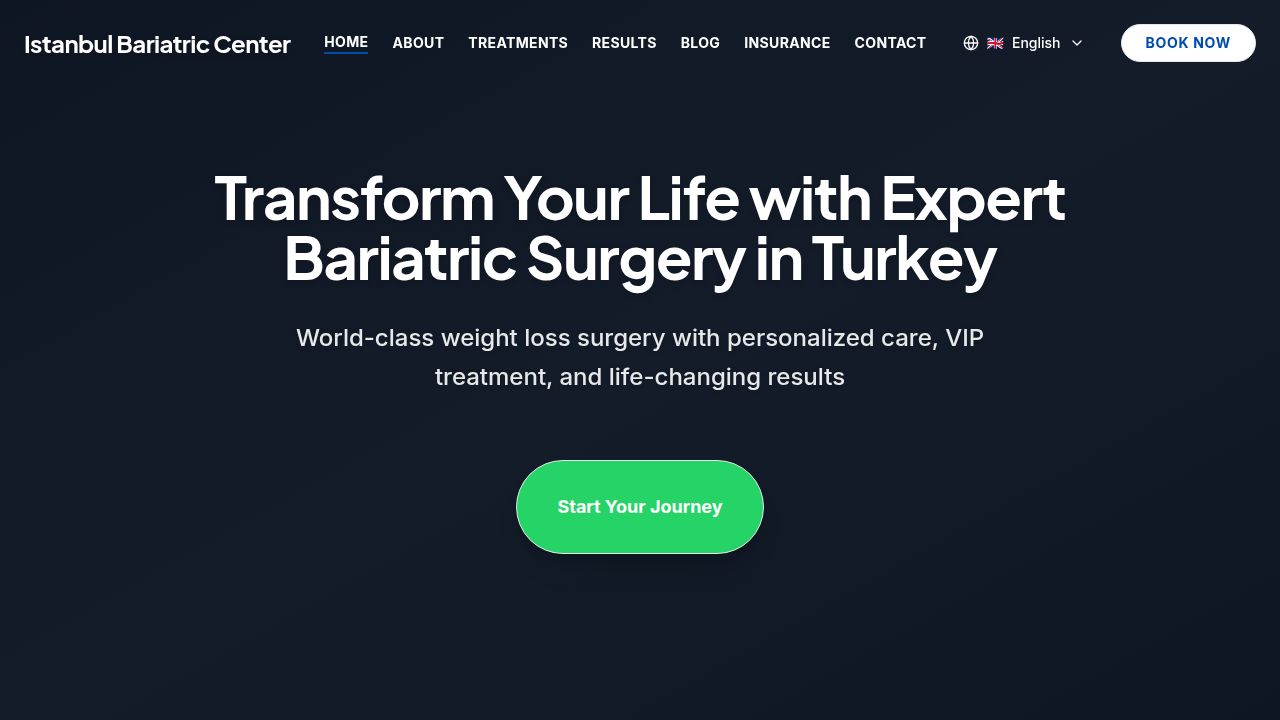
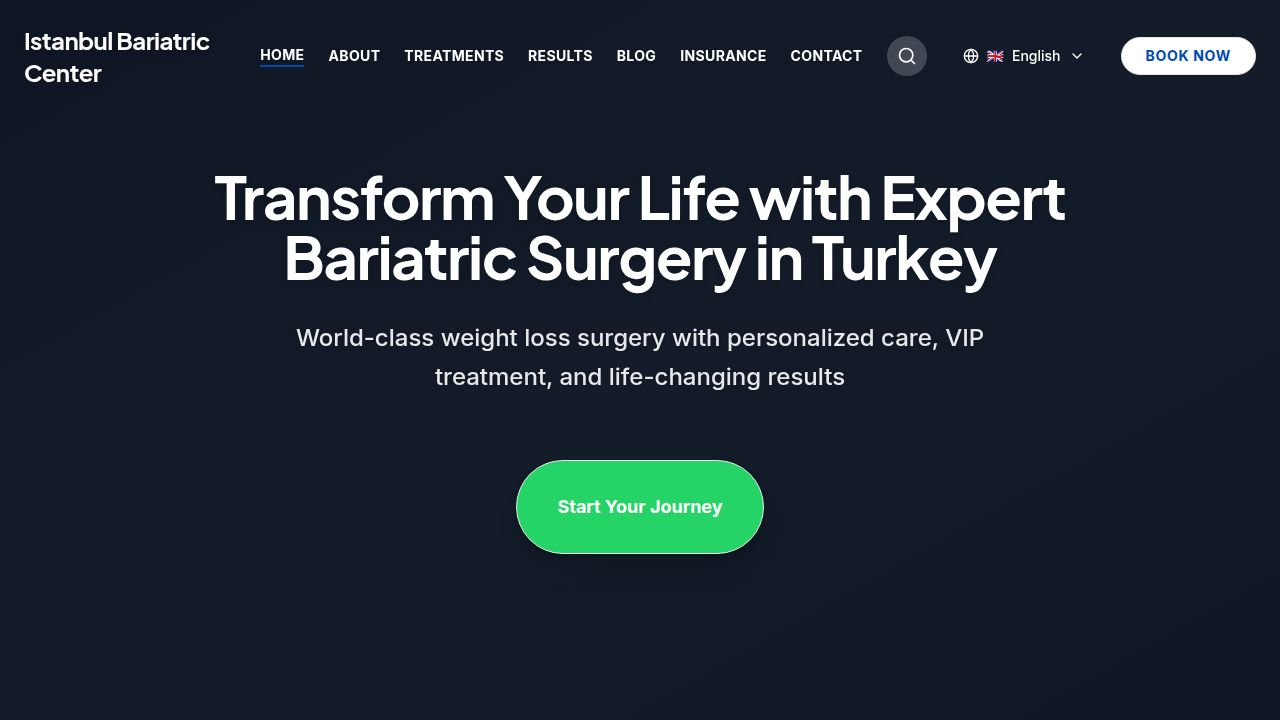
Add search functionality and a button to the main menu
Introduce a new search modal component and integrate a search button into the navbar for both desktop and mobile views, enabling users to search blog posts, treatments, and static pages.

Replit-Commit-Author: Agent
Replit-Commit-Session-Id: 63a8d1e5-71d2-46d5-ae49-2940ac98182d
Replit-Commit-Checkpoint-Type: full_checkpoint
Replit-Commit-Event-Id: f6ed1622-825f-4eb8-8d75-6650f0b80ad7
Replit-Commit-Screenshot-Url: https://storage.googleapis.com/screenshot-production-us-central1/63424575-081f-4c80-94dd-5da2f2b48f81/63a8d1e5-71d2-46d5-ae49-2940ac98182d/yYhcTjQ
Replit-Helium-Checkpoint-Created: true

Changed region(s): [[0.0, 0.0306, 0.8438, 0.1222], [0.875, 0.0306, 1.0, 0.1222]]

diff --git a/client/src/components/search-modal.tsx b/client/src/components/search-modal.tsx
@@ -1,0 +1,197 @@
+import { useState, useEffect, useRef } from "react";
+import { Search, X } from "lucide-react";
+import { useLocation } from "wouter";
+import { cn } from "@/lib/utils";
+import { blogPosts } from "@/data/blog-posts";
+
+interface SearchResult {
+  title: string;
+  href: string;
+  type: "page" | "blog" | "treatment";
+  excerpt?: string;
+}
+
+const staticPages: SearchResult[] = [
+  { title: "Home", href: "/", type: "page" },
+  { title: "About Us", href: "/about", type: "page" },
+  { title: "Our Results", href: "/results", type: "page" },
+  { title: "Blog", href: "/blog", type: "page" },
+  { title: "Contact", href: "/contact", type: "page" },
+  { title: "Insurance", href: "/insurance", type: "page" },
+  { title: "Gastric Sleeve Surgery", href: "/treatments/gastric-sleeve", type: "treatment" },
+  { title: "Gastric Bypass Surgery", href: "/treatments/gastric-bypass", type: "treatment" },
+  { title: "Gastric Balloon", href: "/treatments/gastric-balloon", type: "treatment" },
+  { title: "Revision Surgery", href: "/treatments/revision-surgery", type: "treatment" },
+  { title: "Transit Bipartition", href: "/treatments/transit-bipartition", type: "treatment" },
+  { title: "Gastric Botox", href: "/treatments/gastric-botox", type: "treatment" },
+  { title: "VIP Packages", href: "/treatments/vip-packages", type: "treatment" },
+];
+
+interface SearchModalProps {
+  isOpen: boolean;
+  onClose: () => void;
+  variant?: "light" | "dark";
+}
+
+export function SearchModal({ isOpen, onClose }: SearchModalProps) {
+  const [query, setQuery] = useState("");
+  const [results, setResults] = useState<SearchResult[]>([]);
+  const [, setLocation] = useLocation();
+  const inputRef = useRef<HTMLInputElement>(null);
+
+  useEffect(() => {
+    if (isOpen && inputRef.current) {
+      inputRef.current.focus();
+    }
+  }, [isOpen]);
+
+  useEffect(() => {
+    if (!query.trim()) {
+      setResults([]);
+      return;
+    }
+
+    const searchTerm = query.toLowerCase();
+
+    const blogResults: SearchResult[] = blogPosts
+      .filter(
+        (post) =>
+          post.title.toLowerCase().includes(searchTerm) ||
+          post.excerpt.toLowerCase().includes(searchTerm) ||
+          post.category.toLowerCase().includes(searchTerm)
+      )
+      .slice(0, 5)
+      .map((post) => ({
+        title: post.title,
+        href: `/blog/${post.slug}`,
+        type: "blog" as const,
+        excerpt: post.excerpt,
+      }));
+
+    const pageResults = staticPages.filter((page) =>
+      page.title.toLowerCase().includes(searchTerm)
+    );
+
+    setResults([...pageResults, ...blogResults].slice(0, 8));
+  }, [query]);
+
+  const handleResultClick = (href: string) => {
+    setLocation(href);
+    setQuery("");
+    onClose();
+  };
+
+  const handleKeyDown = (e: React.KeyboardEvent) => {
+    if (e.key === "Escape") {
+      onClose();
+    }
+  };
+
+  if (!isOpen) return null;
+
+  return (
+    <div
+      className="fixed inset-0 z-[100] bg-black/50 backdrop-blur-sm flex items-start justify-center pt-20 px-4"
+      onClick={onClose}
+    >
+      <div
+        className="w-full max-w-2xl bg-white rounded-2xl shadow-2xl overflow-hidden animate-in fade-in zoom-in-95 duration-200"
+        onClick={(e) => e.stopPropagation()}
+      >
+        <div className="relative">
+          <Search className="absolute left-5 top-1/2 -translate-y-1/2 w-5 h-5 text-slate-400" />
+          <input
+            ref={inputRef}
+            type="text"
+            placeholder="Search treatments, blog posts, pages..."
+            value={query}
+            onChange={(e) => setQuery(e.target.value)}
+            onKeyDown={handleKeyDown}
+            className="w-full pl-14 pr-12 py-5 text-lg border-b border-slate-100 focus:outline-none focus:border-primary"
+            data-testid="search-input"
+          />
+          <button
+            onClick={onClose}
+            className="absolute right-4 top-1/2 -translate-y-1/2 p-1 hover:bg-slate-100 rounded-full transition-colors"
+            aria-label="Close search"
+            data-testid="button-close-search"
+          >
+            <X className="w-5 h-5 text-slate-400" />
+          </button>
+        </div>
+
+        {results.length > 0 && (
+          <div className="max-h-96 overflow-y-auto p-2">
+            {results.map((result, index) => (
+              <button
+                key={`${result.href}-${index}`}
+                onClick={() => handleResultClick(result.href)}
+                className="w-full text-left px-4 py-3 hover:bg-primary/5 rounded-lg transition-colors flex items-start gap-3 group"
+                data-testid={`search-result-${index}`}
+              >
+                <span
+                  className={cn(
+                    "text-xs font-bold uppercase px-2 py-1 rounded-full mt-0.5",
+                    result.type === "blog"
+                      ? "bg-blue-100 text-blue-600"
+                      : result.type === "treatment"
+                      ? "bg-green-100 text-green-600"
+                      : "bg-slate-100 text-slate-600"
+                  )}
+                >
+                  {result.type}
+                </span>
+                <div className="flex-1 min-w-0">
+                  <p className="font-semibold text-slate-800 group-hover:text-primary transition-colors truncate">
+                    {result.title}
+                  </p>
+                  {result.excerpt && (
+                    <p className="text-sm text-slate-500 truncate mt-0.5">
+                      {result.excerpt}
+                    </p>
+                  )}
+                </div>
+              </button>
+            ))}
+          </div>
+        )}
+
+        {query && results.length === 0 && (
+          <div className="p-8 text-center text-slate-500">
+            <p>No results found for "{query}"</p>
+            <p className="text-sm mt-1">Try different keywords</p>
+          </div>
+        )}
+
+        {!query && (
+          <div className="p-6 text-center text-slate-400">
+            <p className="text-sm">Start typing to search...</p>
+          </div>
+        )}
+      </div>
+    </div>
+  );
+}
+
+interface SearchButtonProps {
+  variant?: "light" | "dark";
+  onClick: () => void;
+}
+
+export function SearchButton({ variant = "dark", onClick }: SearchButtonProps) {
+  return (
+    <button
+      onClick={onClick}
+      className={cn(
+        "p-2.5 rounded-full transition-all duration-200 hover:scale-110",
+        variant === "dark"
+          ? "bg-primary/10 hover:bg-primary/20 text-primary"
+          : "bg-white/20 hover:bg-white/30 text-white"
+      )}
+      aria-label="Open search"
+      data-testid="button-search"
+    >
+      <Search className="w-5 h-5" />
+    </button>
+  );
+}

diff --git a/client/src/components/navbar.tsx b/client/src/components/navbar.tsx
@@ -5,10 +5,12 @@ import { Button } from "@/components/ui/button";
 import { cn } from "@/lib/utils";
 import { useTranslation } from "react-i18next";
 import { LanguageSwitcher } from "./language-switcher";
+import { SearchButton, SearchModal } from "./search-modal";
 
 export function Navbar() {
   const [isScrolled, setIsScrolled] = useState(false);
   const [isMobileMenuOpen, setIsMobileMenuOpen] = useState(false);
+  const [isSearchOpen, setIsSearchOpen] = useState(false);
   const [location] = useLocation();
   const { t } = useTranslation('nav');
 
@@ -76,6 +78,11 @@ export function Navbar() {
             </Link>
           ))}
           
+          <SearchButton 
+            variant={showSolidNav ? 'dark' : 'light'} 
+            onClick={() => setIsSearchOpen(true)} 
+          />
+          
           <LanguageSwitcher variant={showSolidNav ? 'dark' : 'light'} />
           
           <Button 
@@ -89,8 +96,14 @@ export function Navbar() {
             {t('bookNow')}
           </Button>
         </nav>
+        
+        <SearchModal isOpen={isSearchOpen} onClose={() => setIsSearchOpen(false)} />
 
         <div className="lg:hidden flex items-center gap-2">
+          <SearchButton 
+            variant={showSolidNav ? 'dark' : 'light'} 
+            onClick={() => setIsSearchOpen(true)} 
+          />
           <LanguageSwitcher variant={showSolidNav ? 'dark' : 'light'} />
           <button
             className={cn("p-2", showSolidNav ? "text-slate-800" : "text-white")}
